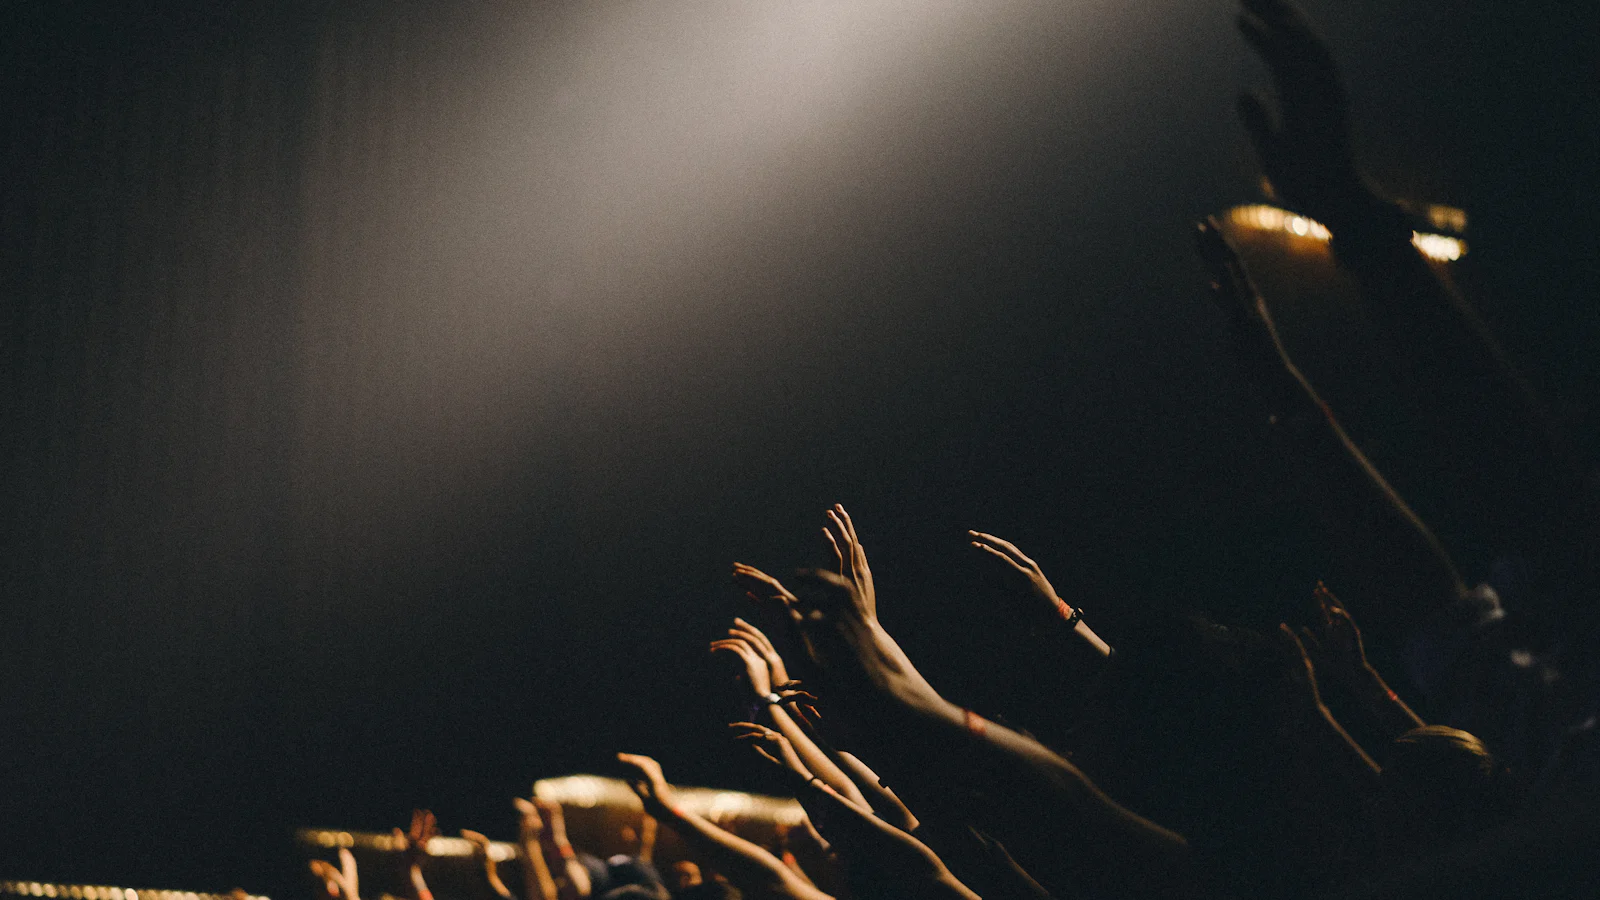
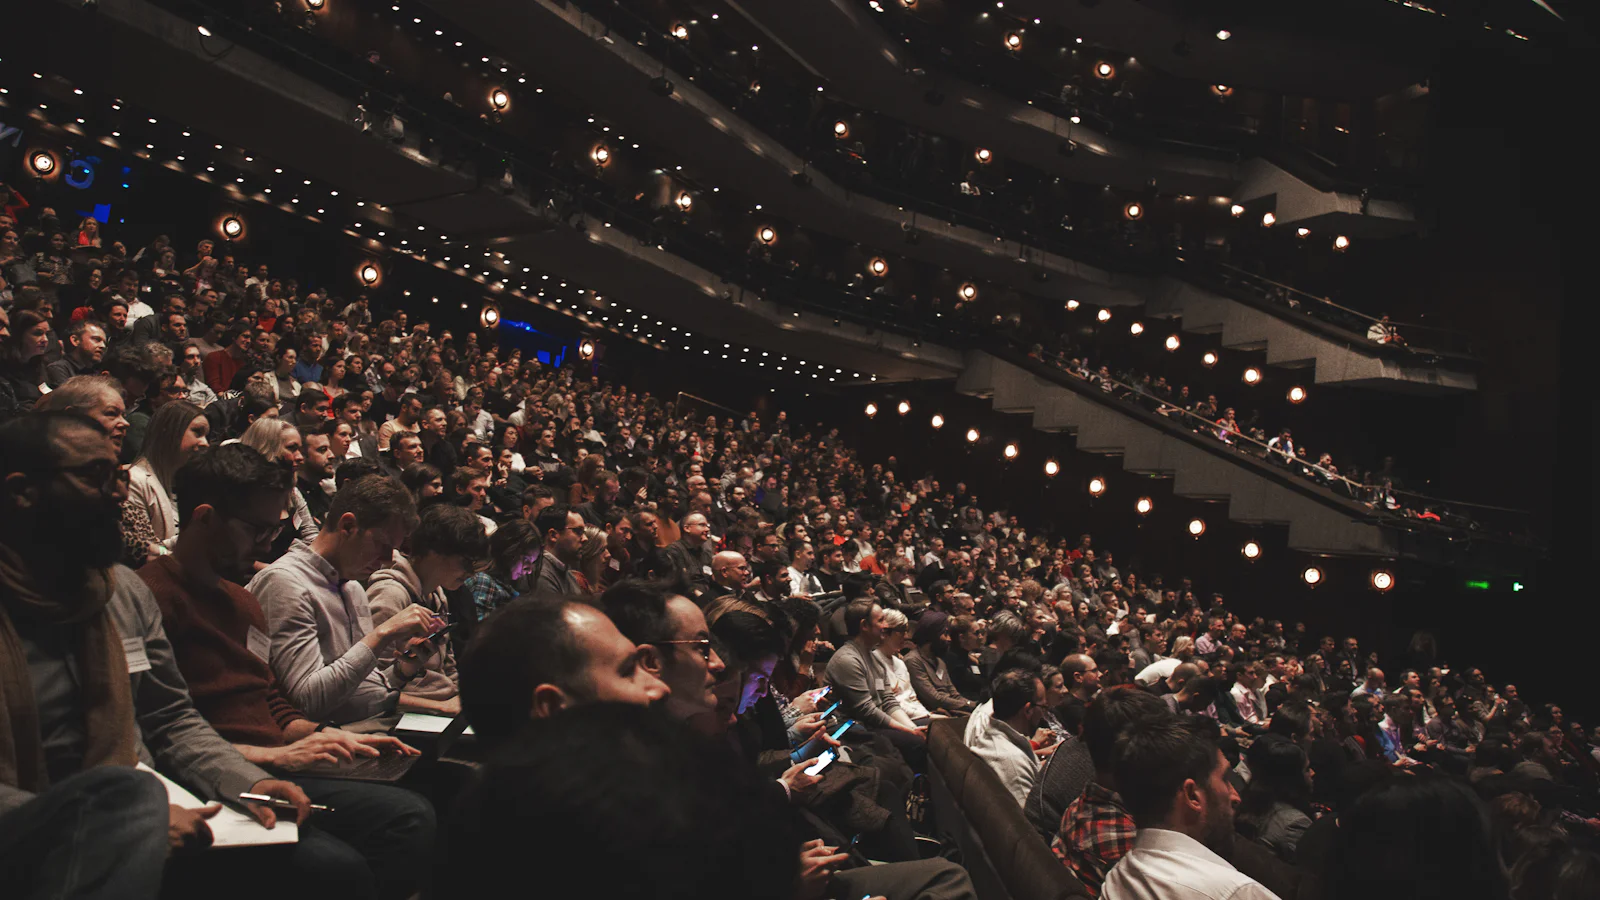
Keep deeper hero blue and reuse the selected auditorium photo

diff --git a/resources/views/product/landing.blade.php b/resources/views/product/landing.blade.php
@@ -6,7 +6,7 @@
 <style>
     /* ── Field ───────────────────────────────────────────────────────── */
     .field {
-        background: var(--field);
+        background: var(--hero-field, var(--field));
         position: relative; overflow: hidden;
     }
     .field::before {
@@ -21,7 +21,7 @@
     .field > * { position: relative; z-index: 2; }
     .field::before { z-index: 1; }
     .field > .hero-images { position: absolute; inset: 0 0 auto; height: clamp(600px, 65vw, 720px); z-index: 0; pointer-events: none; }
-    .hero-images::after { content: ""; position: absolute; inset: 0; background: linear-gradient(rgba(21,93,252,.78) 55%, var(--field) 100%); }
+    .hero-images::after { content: ""; position: absolute; inset: 0; background: linear-gradient(var(--hero-image-overlay) 55%, var(--hero-field) 100%); }
     .hero-images img { position: absolute; inset: 0; width: 100%; height: 100%; object-fit: cover; object-position: center 38%; opacity: 0; filter: brightness(.65); transition: opacity .6s ease; }
     .hero-images img.is-active { opacity: 1; }
     .hero-copy-phrases { display: grid; }
@@ -264,9 +264,9 @@
 @section('content')
 
 {{-- ══ HERO ══════════════════════════════════════════════════════════ --}}
-<section class="field" data-homepage-hero>
+<section class="field" data-homepage-hero style="--hero-field: #0b3ea8; --hero-image-overlay: rgba(11,62,168,.78)">
     <div class="hero-images" aria-hidden="true">
-        <img data-headline-image class="is-active" src="{{ asset('assets/media/hero/overview-1600.webp') }}" srcset="{{ asset('assets/media/hero/overview-640.webp') }} 640w, {{ asset('assets/media/hero/overview-1600.webp') }} 1600w" sizes="100vw" alt="" width="1600" height="900" fetchpriority="high">
+        <img data-headline-image class="is-active" src="{{ asset('assets/media/hero/service-1600.webp') }}" srcset="{{ asset('assets/media/hero/service-640.webp') }} 640w, {{ asset('assets/media/hero/service-1600.webp') }} 1600w" sizes="100vw" alt="" width="1600" height="900" fetchpriority="high">
         <img data-headline-image data-src="{{ asset('assets/media/hero/conference-1600.webp') }}" data-srcset="{{ asset('assets/media/hero/conference-640.webp') }} 640w, {{ asset('assets/media/hero/conference-1600.webp') }} 1600w" sizes="100vw" alt="" width="1600" height="900" decoding="async">
         <img data-headline-image data-src="{{ asset('assets/media/hero/academic-1600.webp') }}" data-srcset="{{ asset('assets/media/hero/academic-640.webp') }} 640w, {{ asset('assets/media/hero/academic-1600.webp') }} 1600w" sizes="100vw" alt="" width="1600" height="900" decoding="async">
         <img data-headline-image data-src="{{ asset('assets/media/hero/social-1600.webp') }}" data-srcset="{{ asset('assets/media/hero/social-640.webp') }} 640w, {{ asset('assets/media/hero/social-1600.webp') }} 1600w" sizes="100vw" alt="" width="1600" height="900" decoding="async">

diff --git a/tests/Feature/Marketing/LandingPageTest.php b/tests/Feature/Marketing/LandingPageTest.php
@@ -151,11 +151,31 @@ test('hero pairs each use case with relevant copy and responsive local photograp
     $images = $xpath->query('//img[@data-headline-image]');
     foreach (config('product-page.hero.use_cases') as $index => $useCase) {
         $image = $images->item($index);
-        expect($image->getAttribute($index === 0 ? 'src' : 'data-src'))->toContain('/'.$useCase['key'].'-1600.webp');
+        $imageKey = $useCase['image_key'] ?? $useCase['key'];
+        expect($image->getAttribute($index === 0 ? 'src' : 'data-src'))->toContain('/'.$imageKey.'-1600.webp');
         foreach ([640, 1600] as $width) {
-            $path = public_path('assets/media/hero/'.$useCase['key'].'-'.$width.'.webp');
+            $path = public_path('assets/media/hero/'.$imageKey.'-'.$width.'.webp');
             expect(is_file($path))->toBeTrue()
                 ->and(filesize($path))->toBeLessThan(220000);
         }
     }
+});
+
+test('the deeper blue trial is confined to the homepage hero', function (): void {
+    $response = $this->get('/')->assertOk();
+    $document = new DOMDocument;
+    @$document->loadHTML($response->getContent());
+    $xpath = new DOMXPath($document);
+    $hero = $xpath->query('//section[@data-homepage-hero]')->item(0);
+    expect($hero->getAttribute('style'))->toContain('--hero-field: #0b3ea8');
+    $response->assertSee('--field: #155dfc', false);
+});
+
+test('the opening hero reuses the selected services auditorium photograph', function (): void {
+    $response = $this->get('/')->assertOk();
+    $document = new DOMDocument;
+    @$document->loadHTML($response->getContent());
+    $xpath = new DOMXPath($document);
+    $images = $xpath->query('//img[@data-headline-image]');
+    expect($images->item(0)->getAttribute('src'))->toBe($images->item(4)->getAttribute('data-src'));
 });

diff --git a/config/product-page.php b/config/product-page.php
@@ -30,9 +30,10 @@ return [
         'use_cases' => [
             [
                 'key' => 'overview',
+                'image_key' => 'service',
                 'copy' => '',
-                'photographer' => 'Matt Benson',
-                'photo_source' => 'https://unsplash.com/photos/empty-event-space-with-decorated-high-top-tables-4PEkh4rvyMQ',
+                'photographer' => null,
+                'photo_source' => 'https://images.unsplash.com/photo-1582192903020-8a5e59dcdcf2',
                 'photo_license' => 'https://unsplash.com/license',
             ],
             [
@@ -59,8 +60,8 @@ return [
             [
                 'key' => 'service',
                 'copy' => 'Organise recurring gatherings, welcome your community and collect offerings. Keep announcements and prayer messages connected.',
-                'photographer' => 'Edwin Andrade',
-                'photo_source' => 'https://unsplash.com/photos/group-of-people-waving-their-hands-6liebVeAfrY',
+                'photographer' => null,
+                'photo_source' => 'https://images.unsplash.com/photo-1582192903020-8a5e59dcdcf2',
                 'photo_license' => 'https://unsplash.com/license',
             ],
             [
